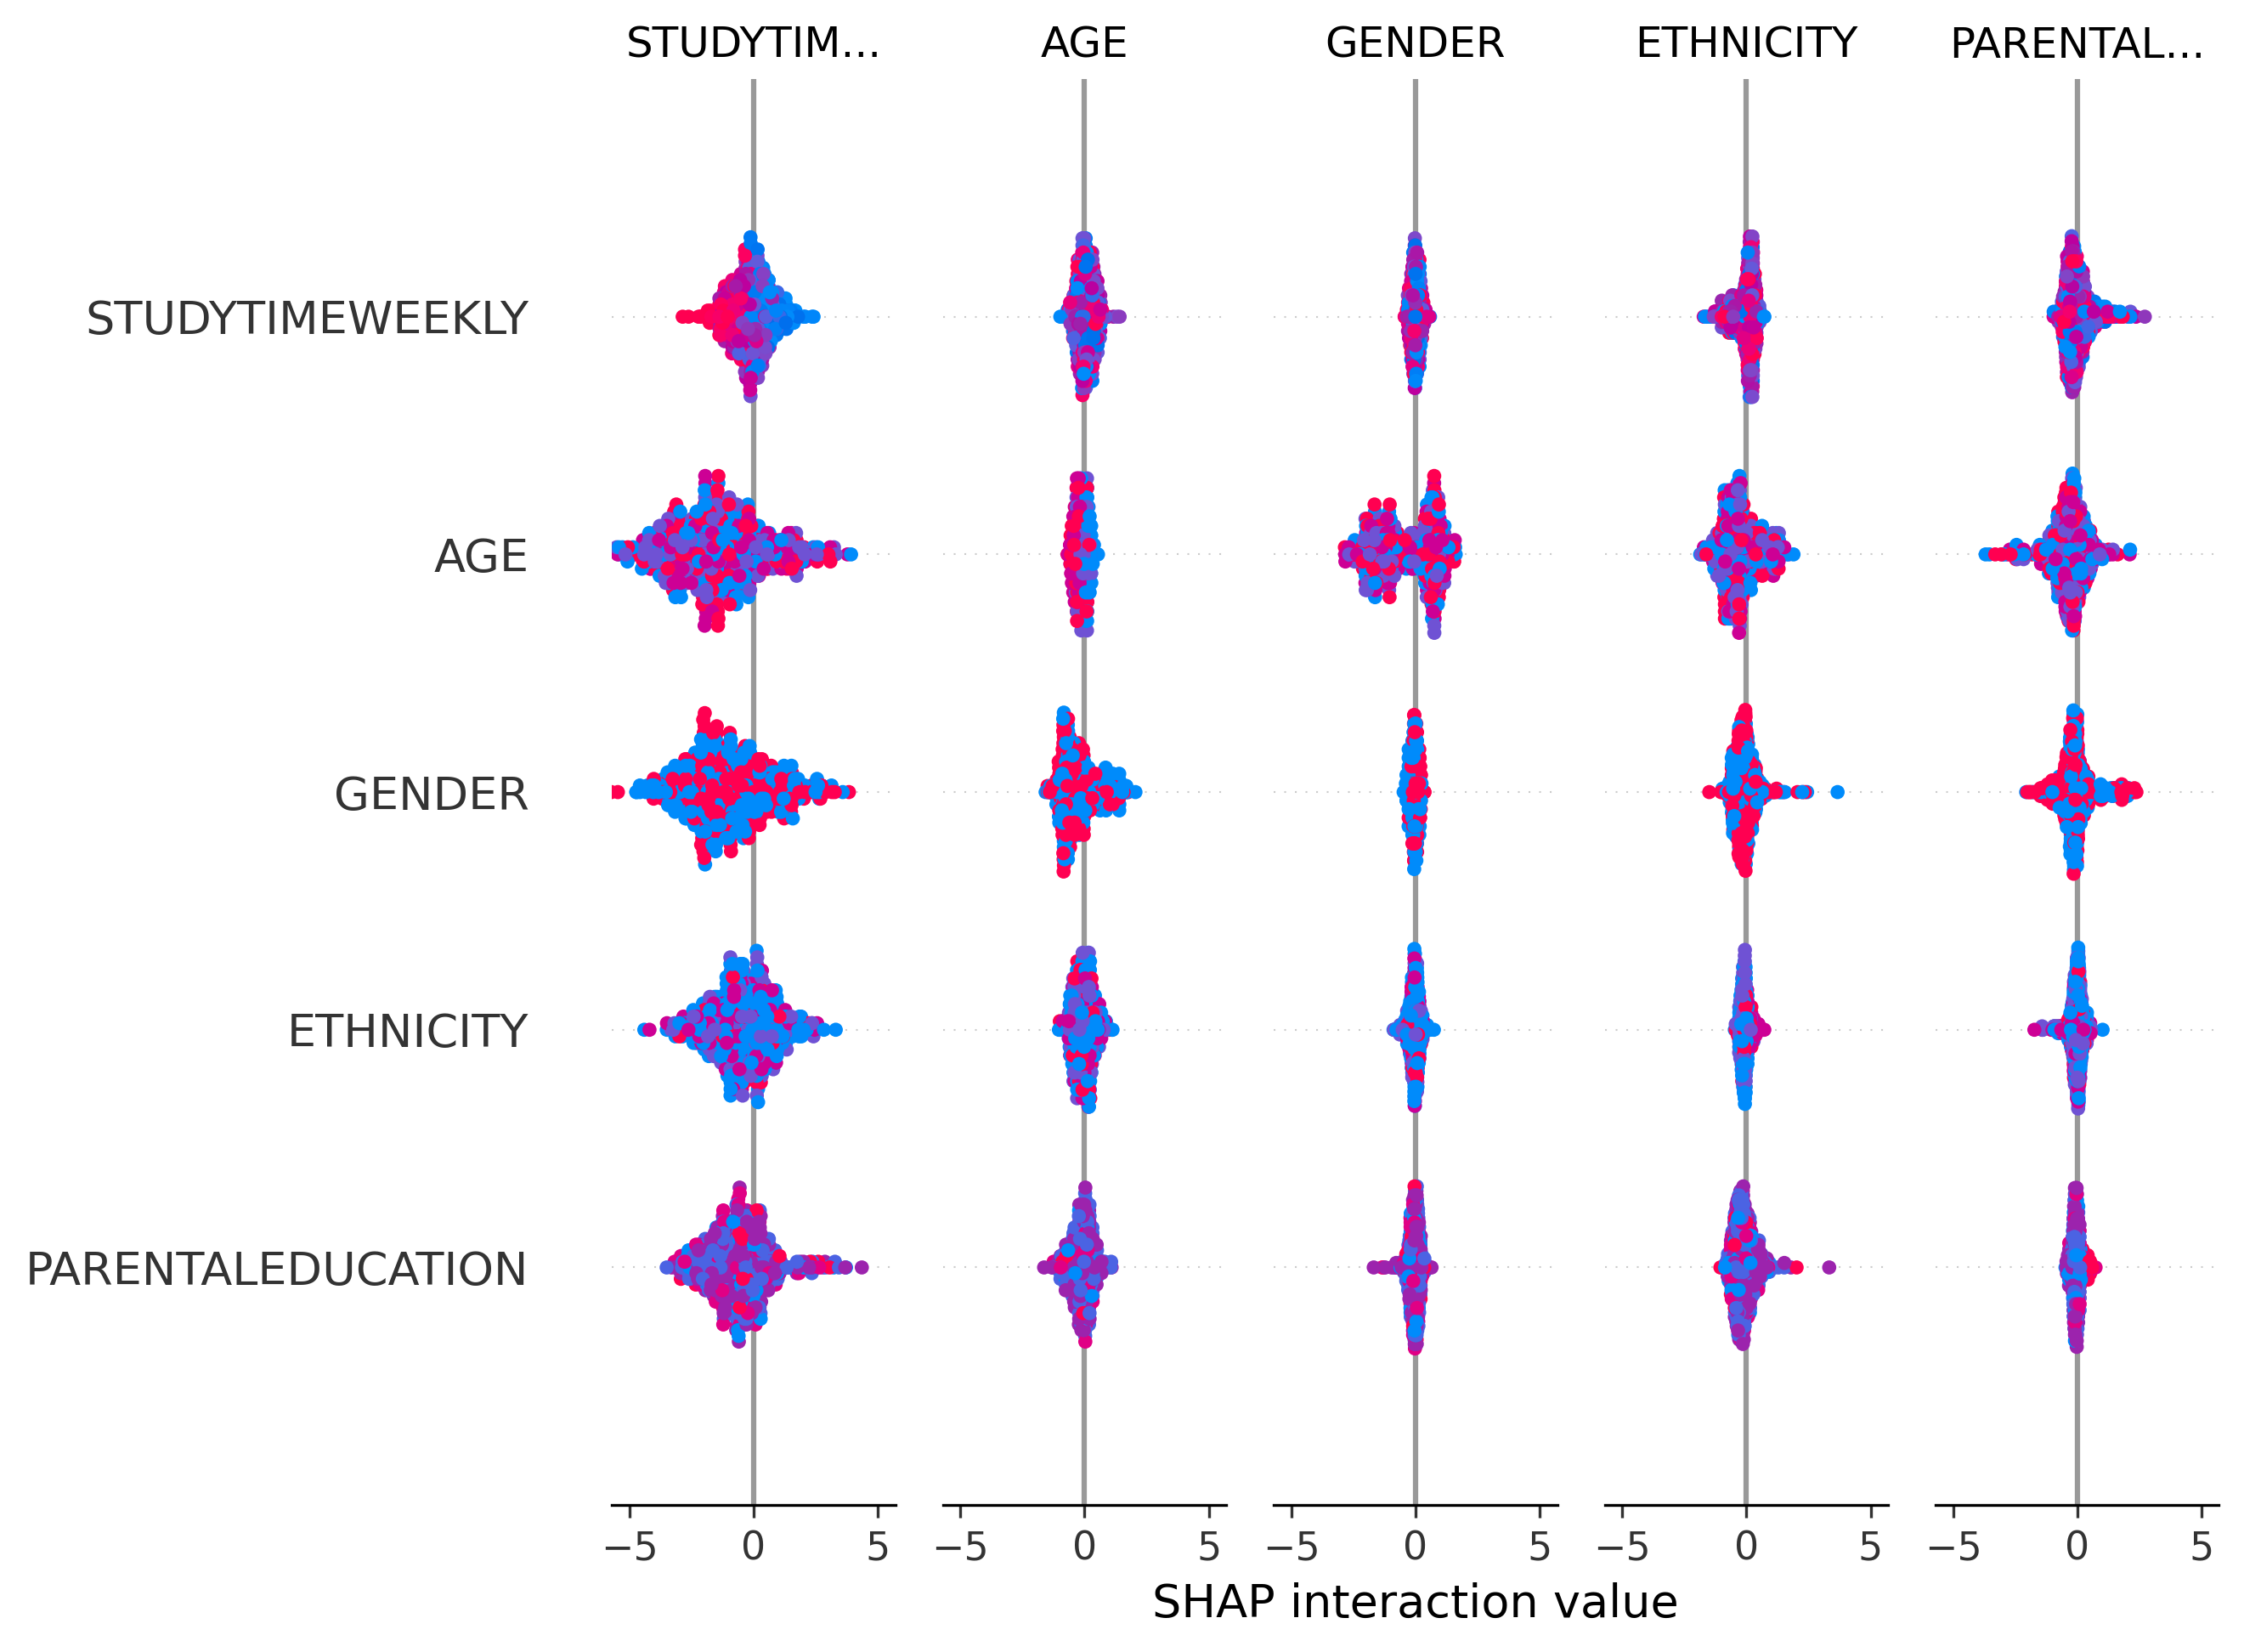
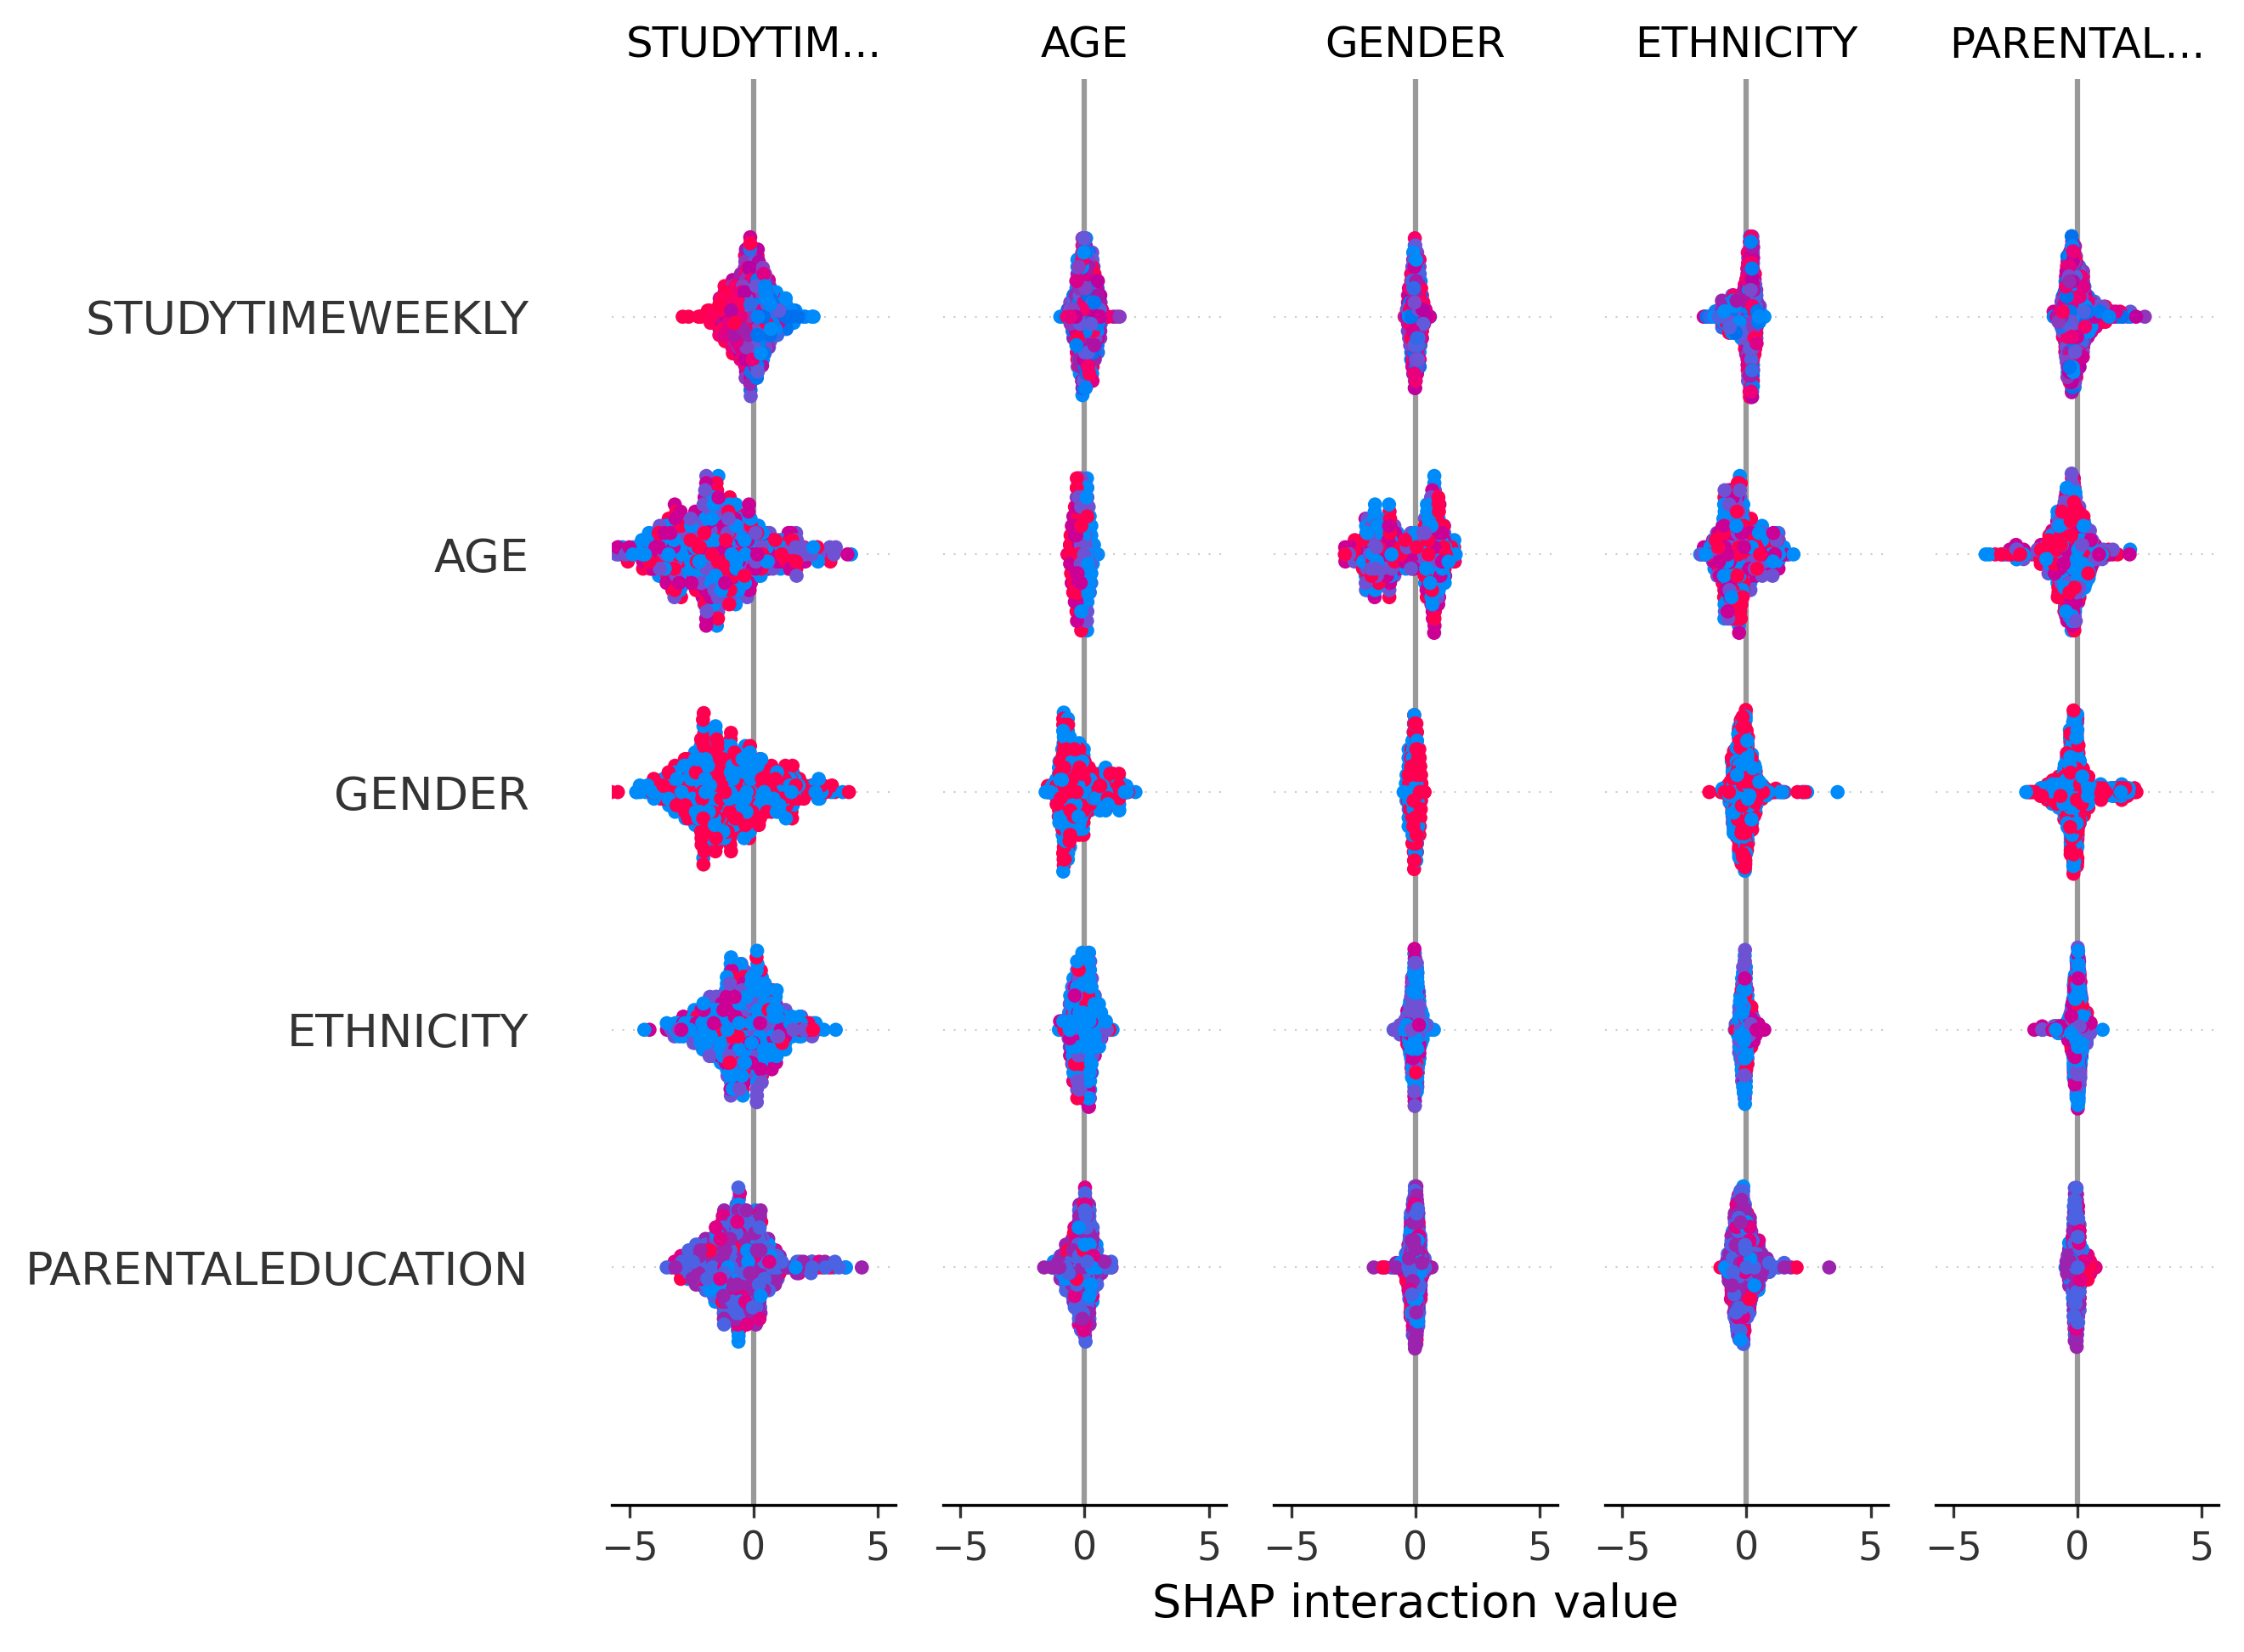
finalized the Readme file and added ROC curve

diff --git a/README.md b/README.md
@@ -1,1 +1,142 @@
-"# Student-Performance-Predictor" 
+# Student Performance Prediction & Explainability System
+
+An end-to-end machine learning pipeline to predict student academic performance across 5 grade classes using behavioural and demographic features, with SHAP-based model explainability.
+
+---
+
+## Results Summary
+
+| Model | Accuracy | Macro F1 | ROC-AUC |
+|---|---|---|---|
+| Logistic Regression | 58% | 0.43 | — |
+| Random Forest | 68.6% | 0.53 | 0.854 |
+| XGBoost | 69.1% | 0.53 | 0.853 |
+
+**Best model: XGBoost** — highest accuracy and strongest performance on minority classes (GradeClass 0/A).
+
+---
+
+## Key Finding
+
+Both correlation analysis and SHAP explainability independently identified **Absences** as the strongest predictor of student grade class. Students with high absenteeism were overwhelmingly concentrated in GradeClass 4 (F), while StudyTimeWeekly and ParentalSupport emerged as the next most impactful behavioural factors. Demographic features (Age, Gender, Ethnicity) showed near-zero importance — suggesting academic behaviour matters far more than background.
+
+---
+
+## Dataset
+
+- **Source:** [Students Performance Dataset — Kaggle (Rabie El Kharoua)](https://www.kaggle.com/datasets/rabieelkharoua/students-performance-dataset)
+- **Size:** 2392 students, 12 features after preprocessing
+- **Target:** GradeClass (0=A, 1=B, 2=C, 3=D, 4=F)
+- **Class distribution:** Heavily imbalanced — 51% GradeClass 4 (F)
+
+---
+
+## Tech Stack
+
+- **Language:** Python
+- **Data:** Pandas, NumPy
+- **Visualization:** Matplotlib, Seaborn
+- **Modelling:** Scikit-learn, XGBoost
+- **Explainability:** SHAP
+- **Environment:** Jupyter Notebook
+
+---
+
+## Project Structure
+
+```
+student-performance-predictor/
+│
+├── notebook.ipynb          # Main notebook — EDA, modelling, SHAP
+├── dataset/
+│   └── student_performance.csv
+├── plots/
+│   ├── correlation_heatmap.png
+│   ├── confusion_matrices.png
+│   ├── roc_curves.png
+│   ├── shap_summary.png
+│   └── shap_feature_importance.png
+└── README.md
+```
+
+---
+
+## Methodology
+
+### 1. Exploratory Data Analysis
+- Inspected data types, missing values, and distributions
+- Correlation heatmap revealed Absences (r=+0.73) as strongest predictor after removing leakage columns
+- GPA (r=-0.78) and Result dropped — both directly derived from GradeClass (target leakage)
+
+### 2. Preprocessing
+- Dropped leakage columns: GPA, Result, StudentID
+- 80/20 train-test split (random_state=42)
+- StandardScaler applied — fitted on training data only to prevent leakage
+- Class imbalance handled via class_weight='balanced'
+
+### 3. Model Training
+Three models trained and compared:
+- **Logistic Regression** — linear baseline
+- **Random Forest** — ensemble of 100 decision trees
+- **XGBoost** — gradient boosting, multiclass configuration
+
+### 4. Evaluation
+Given 51% class imbalance, accuracy alone is misleading — a naive model predicting F every time achieves 51%. **F1-score and ROC-AUC used as primary metrics.**
+
+XGBoost achieved 0.853 ROC-AUC, indicating strong class separation on this imbalanced 5-class problem.
+
+### 5. SHAP Explainability
+SHAP (SHapley Additive exPlanations) applied to XGBoost to interpret predictions globally and locally:
+- **Global:** Summary plot and feature importance bar chart
+- **Local:** Force plot for individual student prediction
+
+SHAP confirmed Absences as dominant predictor, consistent with EDA findings.
+
+---
+
+## Visualizations
+
+### Correlation Heatmap
+![Correlation Heatmap](Corelation_heatmap.png)
+
+### Confusion Matrices
+![Confusion Matrices](confusion_matrices.png)
+
+### ROC Curves
+![ROC Curves](roc_curves.png)
+
+### SHAP Summary Plot
+![SHAP Summary](summary_plot.png)
+
+### SHAP Feature Importance
+![SHAP Feature Importance](shap_feature_importance.png)
+
+---
+
+## How to Run
+
+```bash
+# Clone the repository
+git clone https://github.com/Arihant-Golchha/Student-Performance-Predictor.git
+cd Student-Performance-Predictor
+
+# Install dependencies
+pip install pandas numpy matplotlib seaborn scikit-learn xgboost shap jupyter
+
+# Launch notebook
+jupyter notebook notebook.ipynb
+```
+
+---
+
+## Conclusion
+
+This pipeline demonstrates that student academic performance can be predicted with 69% accuracy and 0.853 ROC-AUC using purely behavioural features. SHAP analysis confirms Absences as the strongest predictor, with StudyTimeWeekly and ParentalSupport as secondary factors. Demographic features contribute minimally — suggesting interventions should focus on attendance and study habits rather than background characteristics.
+
+---
+
+## Author
+
+**Arihant Golchha**  
+B.E. Artificial Intelligence & Data Science — MBM University, Jodhpur  
+[GitHub](https://github.com/Arihant-Golchha) | [LinkedIn](#) | [LeetCode](#)